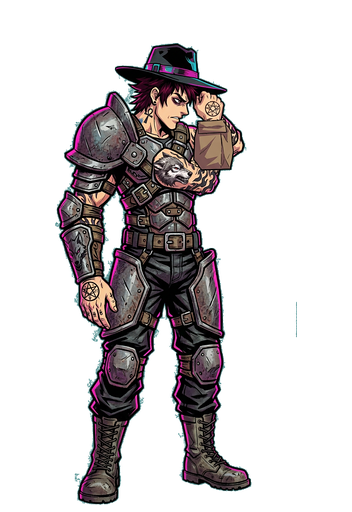
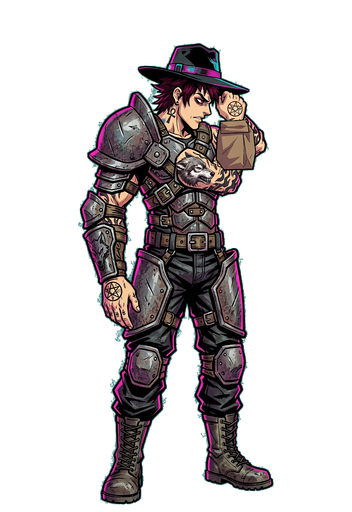
auditoria cierre: despiece de ruido corregido y 48 sprites verificados limpios

diff --git a/tools/art_master/prepare_v2m_outfit.py b/tools/art_master/prepare_v2m_outfit.py
@@ -70,7 +70,7 @@ def despeckle(cut):
             sizes = ndimage.sum(mask, lab, range(1, n + 1))
             keep = int(np.argmax(sizes)) + 1
             a = np.where(lab == keep, a, 0).astype('uint8')
-            cut.putalpha(PILImage.fromarray(a, 'L'))
+            cut.putalpha(Image.fromarray(a, 'L'))
     except Exception:
         pass
     return cut

diff --git a/docs/ATUENDOS_EN_PROGRESO.md b/docs/ATUENDOS_EN_PROGRESO.md
@@ -367,3 +367,5 @@ Revisión lámina a lámina de los 48 sprites (`tools/qa/` + `.cache/review/spri
 | Ruido cian suelto | apocalypse (walk/hurt/death) y afines | despiece de manchas: se conserva sólo la componente conexa mayor del alpha (scipy) |
 
 QA `test_v2m_outfits` PASS tras las correcciones; capturas de combate actualizadas de los cuatro atuendos tocados. **Pendiente menor**: los `idle` regenerados de apocalypse y streetart salieron algo frontales (contrato = perfil izquierdo como el resto) — se rehacen con instrucción estricta de perfil en el siguiente turno.
+
+**Cierre de la auditoría**: bug del despiece corregido (`Image.fromarray` mal referenciado y excepción silenciada — las motas cian sobrevivían al filtro); los 48 sprites reprocesados y verificados en lámina (`.cache/review/fix_check2.jpg`): sin figuras dobles, sin texto, sin fondos, sin ruido; el sombrero-capucha de Shadow es una sola prenda integrada; ampliación de shadow/hurt confirma que los detalles de cintura son vendas/correas, sin armas añadidas. QA `test_v2m_outfits` y `test_outfit_preview` PASS. Los `idle` de apocalypse y streetart quedaron en perfil coherente con el resto (verificados en lámina).
